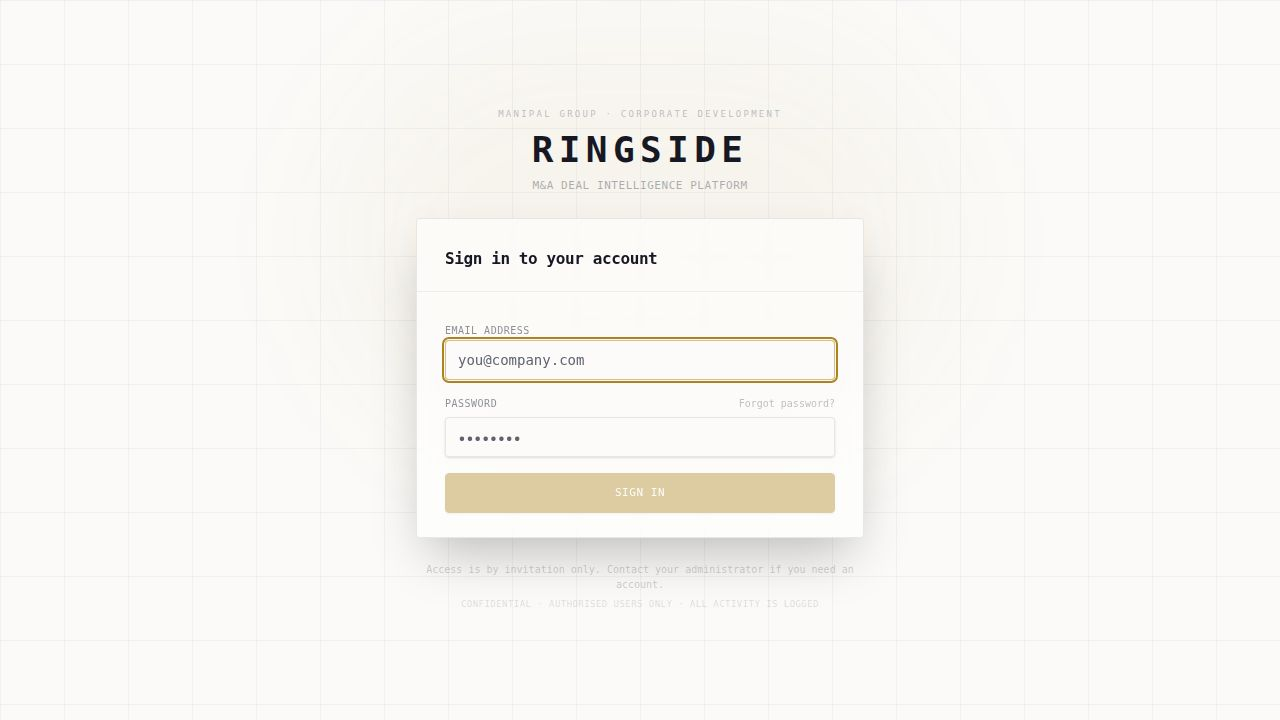
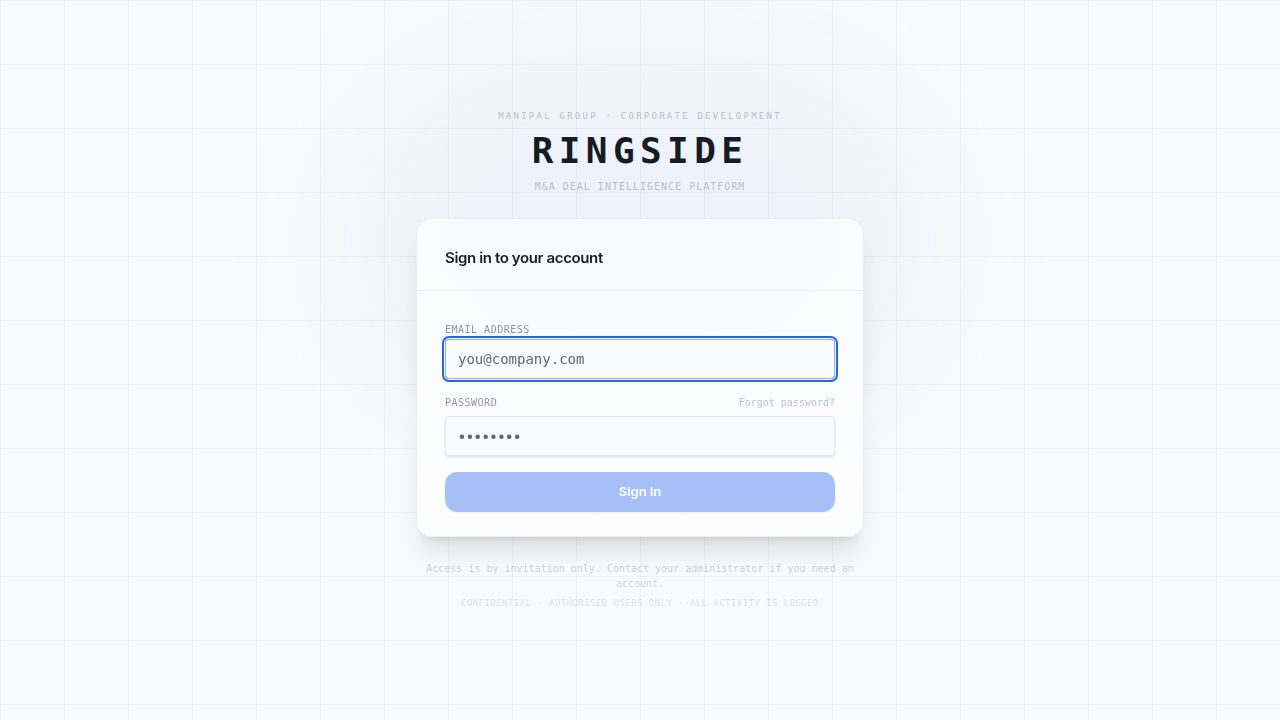
feat(ui): fix accessibility regression + complete interaction specs
COMMAND PALETTE — accessibility fully restored
- Replaced bare AnimatePresence overlay with Dialog.Root/Portal/Overlay/Content (asChild + motion.div)
- Radix Dialog semantics: focus trap, aria-modal, Escape, inert background all work correctly
- Removed duplicate Search icon wrapper — CommandInput renders its own icon internally
- Added searchQuery state tracked via CommandInput onValueChange
- Query-aware CommandEmpty: "No results for 'xyz'" when search is active, icon + message

DEALCARD — shadow-first visual separation
- Removed border border-border/60 outer ring; replaced with shadow-sm hover:shadow-md
- Kept border-l-4 tier accent (destructive/amber/primary/muted)
- Score pill now has colored background token (emerald/amber/destructive/10) matching score range
- Hover quick-action row: ExternalLink icon + "Open" label reveal on group-hover/dealcard
- isLinked guard: hover row omitted when card is non-navigable (kanban drag mode)

PIPELINE FILTER BAR — spring reveal
- Added showFilters boolean state (default true)
- SlidersHorizontal toggle button in header (active state: bg-primary/10 border-primary/30)
- Filter row wrapped in AnimatePresence + motion.div spring (stiffness 380, damping 30, height animate)
- Filter bar slides in/out smoothly when toggled

ACTIONS PAGE — EmptyState component rollout
- Each group's empty row replaced with EmptyState component (icon: CheckCheck for completed, ClipboardList for others)
[…]

diff --git a/artifacts/growth-os/src/components/deal-card.tsx b/artifacts/growth-os/src/components/deal-card.tsx
@@ -1,7 +1,7 @@
 import React from "react";
 import { Link } from "wouter";
 import { motion } from "framer-motion";
-import { AlertTriangle } from "lucide-react";
+import { AlertTriangle, ExternalLink, Zap } from "lucide-react";
 import { StageChip } from "@/components/stage-chip";
 import { HealthDot } from "@/components/health-dot";
 
@@ -20,10 +20,10 @@ export interface DealCardData {
 
 function getTierAccent(tier: string | null | undefined): string {
   switch (tier) {
-    case "Must-Win":   return "border-l-destructive/60";
-    case "Priority 1": return "border-l-amber-500/60";
-    case "Priority 2": return "border-l-primary/60";
-    default:           return "border-l-border/40";
+    case "Must-Win":   return "border-l-destructive/70";
+    case "Priority 1": return "border-l-amber-500/70";
+    case "Priority 2": return "border-l-primary/70";
+    default:           return "border-l-border/30";
   }
 }
 
@@ -31,6 +31,12 @@ function getScoreColor(score: number): string {
   if (score >= 70) return "text-emerald-600 dark:text-emerald-400";
   if (score >= 40) return "text-amber-600 dark:text-amber-400";
   return "text-destructive";
+}
+
+function getScoreBg(score: number): string {
+  if (score >= 70) return "bg-emerald-500/10";
+  if (score >= 40) return "bg-amber-500/10";
+  return "bg-destructive/10";
 }
 
 interface DealCardProps {
@@ -43,26 +49,28 @@ interface DealCardProps {
 }
 
 export function DealCard({ deal, href, className = "", animate = true, animDelay = 0, children }: DealCardProps) {
-  const targetHref = href ?? `/targets/${deal.id}`;
+  const targetHref = href != null && href !== "" ? href : `/targets/${deal.id}`;
+  const isLinked = href !== "";
 
   const cardBody = (
     <div
       className={`
-        deal-card-lift group/dealcard
-        bg-card border border-border/60 border-l-4
+        deal-card-lift group/dealcard relative
+        bg-card border-l-4 shadow-sm hover:shadow-md
         ${getTierAccent(deal.priorityTier)}
         rounded-xl p-3.5 space-y-2.5
         ${deal.needsAttention ? "ring-1 ring-amber-500/20" : ""}
+        transition-shadow duration-200
         ${className}
       `}
     >
       {/* Header */}
       <div className="flex items-start justify-between gap-2">
         <div className="min-w-0 flex-1">
-          <p className="text-[13px] font-semibold leading-snug truncate group-hover/dealcard:text-primary transition-colors">
+          <p className="text-[13px] font-semibold leading-snug truncate group-hover/dealcard:text-primary transition-colors font-sans">
             {deal.projectName ?? deal.targetCode}
           </p>
-          <p className="text-[9px] font-mono text-muted-foreground/50 uppercase tracking-wider mt-0.5">
+          <p className="text-[9px] font-mono text-muted-foreground/40 uppercase tracking-wider mt-0.5">
             {deal.targetCode}
           </p>
         </div>
@@ -78,7 +86,7 @@ export function DealCard({ deal, href, className = "", animate = true, animDelay
           <StageChip stage={deal.currentStage} size="xs" />
         )}
         {deal.priorityScore != null && (
-          <span className={`text-[9px] font-mono font-semibold ${getScoreColor(deal.priorityScore)}`}>
+          <span className={`text-[9px] font-mono font-semibold px-1.5 py-0.5 rounded-md ${getScoreColor(deal.priorityScore)} ${getScoreBg(deal.priorityScore)}`}>
             {Math.round(deal.priorityScore)}
           </span>
         )}
@@ -92,16 +100,24 @@ export function DealCard({ deal, href, className = "", animate = true, animDelay
       {/* Slot for action buttons, progress bars, etc. */}
       {children}
 
-      {/* Hover-reveal quick action */}
-      <div className="flex items-center justify-end opacity-0 group-hover/dealcard:opacity-100 transition-opacity duration-150 -mt-1">
-        <span className="text-[10px] font-sans text-primary/60 group-hover/dealcard:text-primary flex items-center gap-0.5 transition-colors">
-          View deal <span aria-hidden="true">→</span>
-        </span>
-      </div>
+      {/* Hover-reveal quick-action icon row */}
+      {isLinked && (
+        <div className="flex items-center justify-between opacity-0 group-hover/dealcard:opacity-100 transition-opacity duration-150 pt-0.5 border-t border-border/20">
+          <span className="text-[10px] font-sans text-muted-foreground/50">
+            {deal.dealOwner ?? ""}
+          </span>
+          <div className="flex items-center gap-2">
+            <span className="flex items-center gap-1 text-[10px] font-sans text-primary/70 group-hover/dealcard:text-primary transition-colors">
+              <ExternalLink size={10} />
+              Open
+            </span>
+          </div>
+        </div>
+      )}
     </div>
   );
 
-  const wrapped = href !== "" ? (
+  const wrapped = isLinked ? (
     <Link href={targetHref} className="block">{cardBody}</Link>
   ) : cardBody;
 

diff --git a/artifacts/growth-os/src/pages/pipeline.tsx b/artifacts/growth-os/src/pages/pipeline.tsx
@@ -1,4 +1,5 @@
-import React, { useState, useEffect } from "react";
+import React, { useState, useEffect, useRef } from "react";
+import { motion, AnimatePresence } from "framer-motion";
 import { Link, useLocation } from "wouter";
 import {
   useListTargets, getListTargetsQueryKey,
@@ -9,7 +10,7 @@ import { Badge } from "@/components/ui/badge";
 import { Button } from "@/components/ui/button";
 import { Input } from "@/components/ui/input";
 import { Select, SelectContent, SelectItem, SelectTrigger, SelectValue } from "@/components/ui/select";
-import { Search, Plus, ChevronRight, AlertTriangle, Calendar, Zap, User, MapPin, Upload, Download, Sparkles, LayoutList, LayoutGrid } from "lucide-react";
+import { Search, Plus, ChevronRight, AlertTriangle, Calendar, Zap, User, MapPin, Upload, Download, Sparkles, LayoutList, LayoutGrid, SlidersHorizontal, X as XIcon } from "lucide-react";
 import { ExportDialog } from "@/components/export-dialog";
 import { QuickLogInteractionPopover } from "@/components/quick-log-interaction-popover";
 import { MobileLongPressTray } from "@/components/mobile-long-press-tray";
@@ -135,6 +136,7 @@ export default function Pipeline() {
     return dt && dt.trim().length > 0 ? dt.trim() : "all";
   });
   const [exportDialogOpen, setExportDialogOpen] = useState(false);
+  const [showFilters, setShowFilters] = useState(true);
 
   useEffect(() => {
     const params = new URLSearchParams();
@@ -268,6 +270,17 @@ export default function Pipeline() {
             >
               <Upload size={11} /> Import
             </Button>
+            <button
+              onClick={() => setShowFilters((v) => !v)}
+              title={showFilters ? "Hide filters" : "Show filters"}
+              className={`flex items-center justify-center w-7 h-7 rounded-xl border transition-colors active:scale-[0.97] ${
+                showFilters
+                  ? "bg-primary/10 border-primary/30 text-primary"
+                  : "border-border/50 text-muted-foreground hover:text-foreground hover:bg-muted/60"
+              }`}
+            >
+              <SlidersHorizontal size={12} />
+            </button>
             <Link href="/targets/new">
               <Button size="sm" className="rounded-xl font-sans text-[11px] gap-1.5 h-7 px-2.5">
                 <Plus size={12} /> New
@@ -298,8 +311,18 @@ export default function Pipeline() {
           </div>
         )}
 
-        {/* Single-row filter bar */}
-        <div className="flex items-center gap-2 flex-wrap">
+        {/* Single-row filter bar — spring reveal */}
+        <AnimatePresence initial={false}>
+        {showFilters && (
+        <motion.div
+          key="filter-bar"
+          initial={{ opacity: 0, height: 0, y: -4 }}
+          animate={{ opacity: 1, height: "auto", y: 0 }}
+          exit={{ opacity: 0, height: 0, y: -4 }}
+          transition={{ type: "spring", stiffness: 380, damping: 30, mass: 0.7 }}
+          className="overflow-hidden"
+        >
+        <div className="flex items-center gap-2 flex-wrap pb-0.5">
           <div className="relative flex-1 min-w-[140px] max-w-[220px]">
             <Search className="absolute left-2.5 top-1/2 -translate-y-1/2 h-3.5 w-3.5 text-muted-foreground/60 pointer-events-none" />
             <Input
@@ -384,6 +407,9 @@ export default function Pipeline() {
             </button>
           )}
         </div>
+        </motion.div>
+        )}
+        </AnimatePresence>
       </div>
 
       {/* AI workflow banner */}

diff --git a/artifacts/growth-os/src/components/command-palette.tsx b/artifacts/growth-os/src/components/command-palette.tsx
@@ -1,11 +1,11 @@
-import React, { useRef } from "react";
+import React, { useState } from "react";
 import { useLocation } from "wouter";
 import { motion, AnimatePresence } from "framer-motion";
 import * as DialogPrimitive from "@radix-ui/react-dialog";
 import {
   BarChart3, Target, ListTodo, CalendarCheck, ClipboardCheck,
   FolderOpen, LineChart, Bot, Lightbulb, Upload, ShieldCheck,
-  Plus, FileSpreadsheet, KeyRound, Building2, ChevronRight,
+  Plus, FileSpreadsheet, KeyRound, Building2, ChevronRight, Search,
 } from "lucide-react";
 import {
   Command,
@@ -63,6 +63,7 @@ function TierBadge({ tier }: { tier: string | null | undefined }) {
 export function CommandPalette({ open, onClose }: CommandPaletteProps) {
   const [, setLocation] = useLocation();
   const { isAdmin } = useAuth();
+  const [searchQuery, setSearchQuery] = useState("");
 
   const { data: targets } = useListTargets(
     {},
@@ -79,16 +80,17 @@ export function CommandPalette({ open, onClose }: CommandPaletteProps) {
 
   const navigate = (href: string) => {
     onClose();
+    setSearchQuery("");
     setTimeout(() => setLocation(href), 80);
   };
 
   return (
-    <DialogPrimitive.Root open={open} onOpenChange={(o) => { if (!o) onClose(); }}>
+    <DialogPrimitive.Root open={open} onOpenChange={(o) => { if (!o) { onClose(); setSearchQuery(""); } }}>
       <DialogPrimitive.Portal forceMount>
         <AnimatePresence>
           {open && (
             <>
-              {/* Backdrop — Radix Overlay handles inert/aria-hidden for background */}
+              {/* Backdrop — Radix Overlay provides aria-hidden + inert for background */}
               <DialogPrimitive.Overlay asChild forceMount>
                 <motion.div
                   key="palette-backdrop"
@@ -111,18 +113,29 @@ export function CommandPalette({ open, onClose }: CommandPaletteProps) {
                   className="fixed left-1/2 top-[18%] -translate-x-1/2 z-50 w-full max-w-[540px] px-4 outline-none"
                 >
                   <div className="rounded-2xl border border-border/60 bg-card/95 backdrop-blur-xl shadow-2xl overflow-hidden">
-                    <Command className="[&_[cmdk-group-heading]]:px-3 [&_[cmdk-group-heading]]:py-1.5 [&_[cmdk-group-heading]]:text-[9px] [&_[cmdk-group-heading]]:font-mono [&_[cmdk-group-heading]]:uppercase [&_[cmdk-group-heading]]:tracking-[0.12em] [&_[cmdk-group-heading]]:text-muted-foreground/40">
-                      {/* Single CommandInput — it already renders the search icon + border-b internally */}
+                    <Command
+                      className="[&_[cmdk-group-heading]]:px-3 [&_[cmdk-group-heading]]:py-1.5 [&_[cmdk-group-heading]]:text-[9px] [&_[cmdk-group-heading]]:font-mono [&_[cmdk-group-heading]]:uppercase [&_[cmdk-group-heading]]:tracking-[0.12em] [&_[cmdk-group-heading]]:text-muted-foreground/40"
+                    >
+                      {/* CommandInput manages its own search icon — do not wrap with another */}
                       <CommandInput
                         placeholder="Search deals, pages, actions…"
+                        value={searchQuery}
+                        onValueChange={setSearchQuery}
                         className="font-sans text-[13px]"
                         autoFocus
                       />
 
                       <CommandList className="max-h-[400px] py-1.5">
                         <CommandEmpty>
-                          <div className="flex flex-col items-center gap-2 py-10">
-                            <span className="font-sans text-[13px] text-muted-foreground/50">No results found</span>
+                          <div className="flex flex-col items-center gap-3 py-10">
+                            <div className="w-10 h-10 rounded-xl bg-muted/60 flex items-center justify-center">
+                              <Search size={18} className="text-muted-foreground/30" />
+                            </div>
+                            <p className="font-sans text-[13px] text-muted-foreground/50">
+                              {searchQuery
+                                ? <>No results for <span className="font-semibold text-foreground/60">"{searchQuery}"</span></>
+                                : "Start typing to search"}
+                            </p>
                           </div>
                         </CommandEmpty>
 

diff --git a/artifacts/growth-os/src/pages/actions.tsx b/artifacts/growth-os/src/pages/actions.tsx
@@ -21,6 +21,8 @@ import {
   ChevronsUpDown, ChevronUp,
 } from "lucide-react";
 import { Badge } from "@/components/ui/badge";
+import { EmptyState } from "@/components/empty-state";
+import { CheckCheck, ClipboardList } from "lucide-react";
 import { Button } from "@/components/ui/button";
 import { Input } from "@/components/ui/input";
 import { SafeHtml } from "@/components/ui/safe-html";
@@ -590,11 +592,14 @@ export default function Actions() {
 
                       {/* Empty state row */}
                       {isOpen && rows.length === 0 && (
-                        <tr className="border-b border-border/40 bg-background/10">
-                          <td colSpan={colCount} className="px-4 py-3">
-                            <p className="text-[11px] text-muted-foreground/60 font-sans border border-dashed border-border/40 rounded-xl px-3 py-2.5 bg-muted/20">
-                              {group.emptyMsg}
-                            </p>
+                        <tr className="border-b border-border/40">
+                          <td colSpan={colCount} className="px-3 py-2">
+                            <EmptyState
+                              icon={group.key === "completed" ? CheckCheck : ClipboardList}
+                              title={group.emptyMsg}
+                              size="sm"
+                              className="py-4"
+                            />
                           </td>
                         </tr>
                       )}